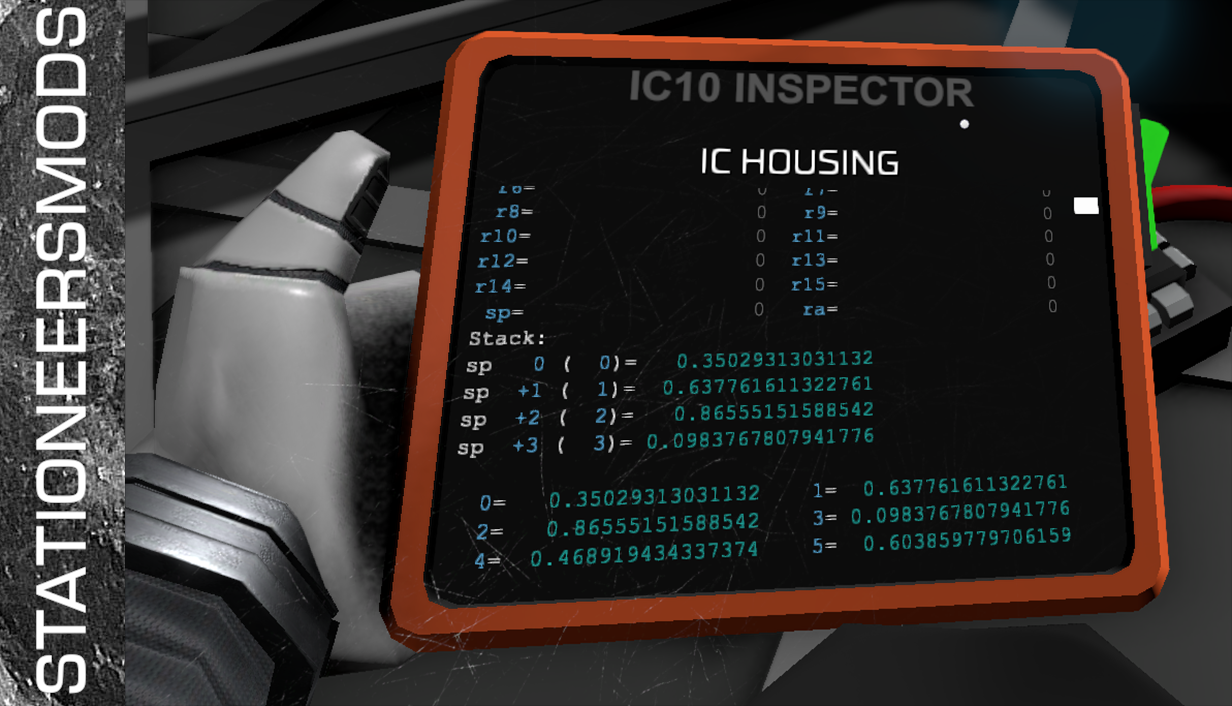
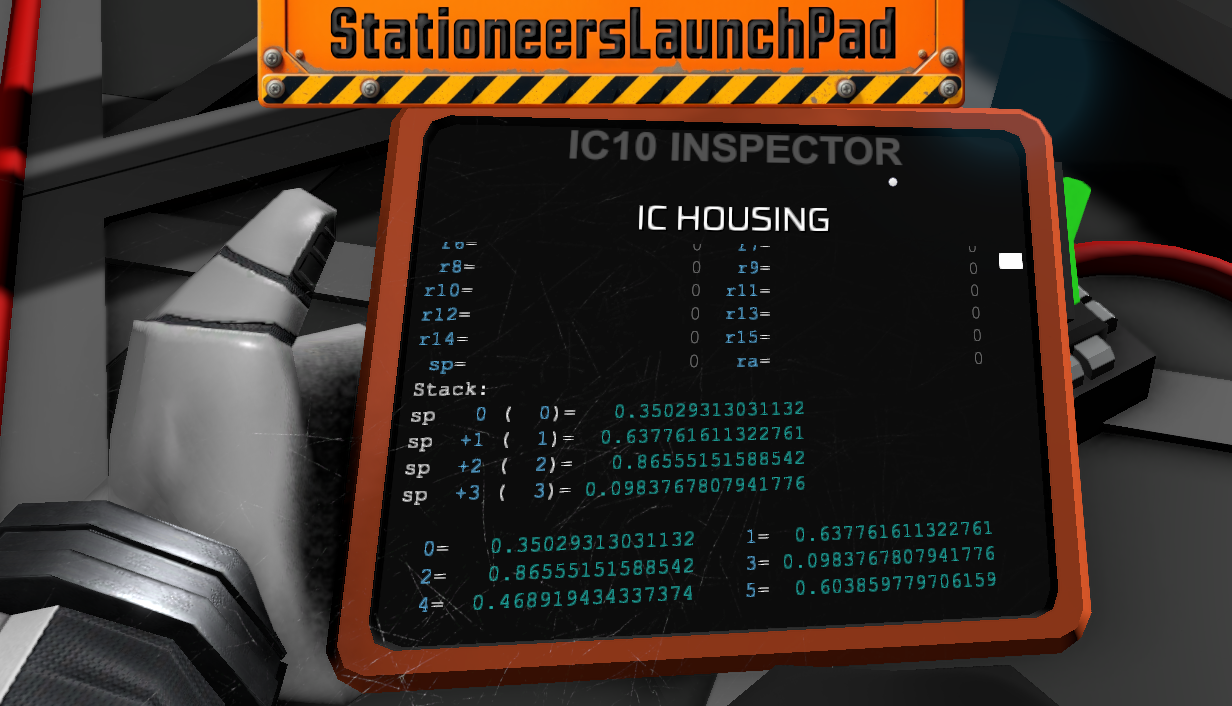
fix: Updated about & tumbnails to StationeersLaunchPad (forgot version bump, oh well) fix: Changed message to use a non-checked logic data message and removed support for user writing to the logic value.

diff --git a/Assets/Scripts/Objects/Items/DebugCartridge.cs b/Assets/Scripts/Objects/Items/DebugCartridge.cs
@@ -156,8 +156,8 @@ namespace ridorana.IC10Inspector.Objects.Items {
                             refIdToSend = 0;
                         }
 
-                        new SetLogicFromClient {
-                            LogicId = ReferenceId, LogicType = LOGIC_TYPE, Value = refIdToSend
+                        new SetLogicValueMessage  {
+                            DeviceReferenceId = ReferenceId, LogicType = LOGIC_TYPE, LogicValue = refIdToSend
                         }.SendToServer();
                     }
 
@@ -172,9 +172,9 @@ namespace ridorana.IC10Inspector.Objects.Items {
 
         public override bool CanLogicWrite(LogicType logicType) {
             //ConsoleWindow.Print("CanLogicWrite( " + logicType + ")");
-            if (logicType == LOGIC_TYPE) {
-                return true;
-            }
+            //if (logicType == LOGIC_TYPE) {
+            //    return true;
+            //}
             return base.CanLogicWrite(logicType);
         }
 
